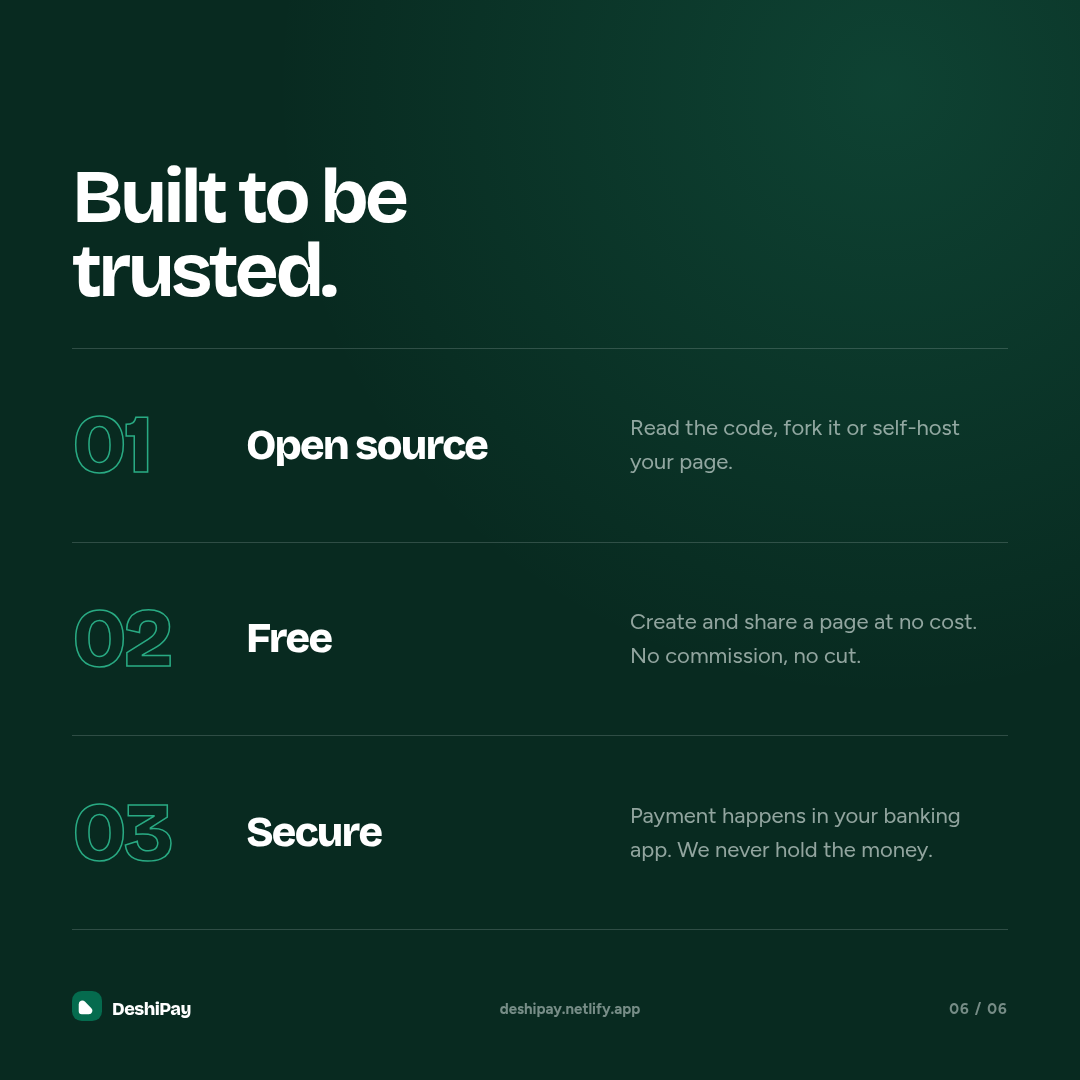
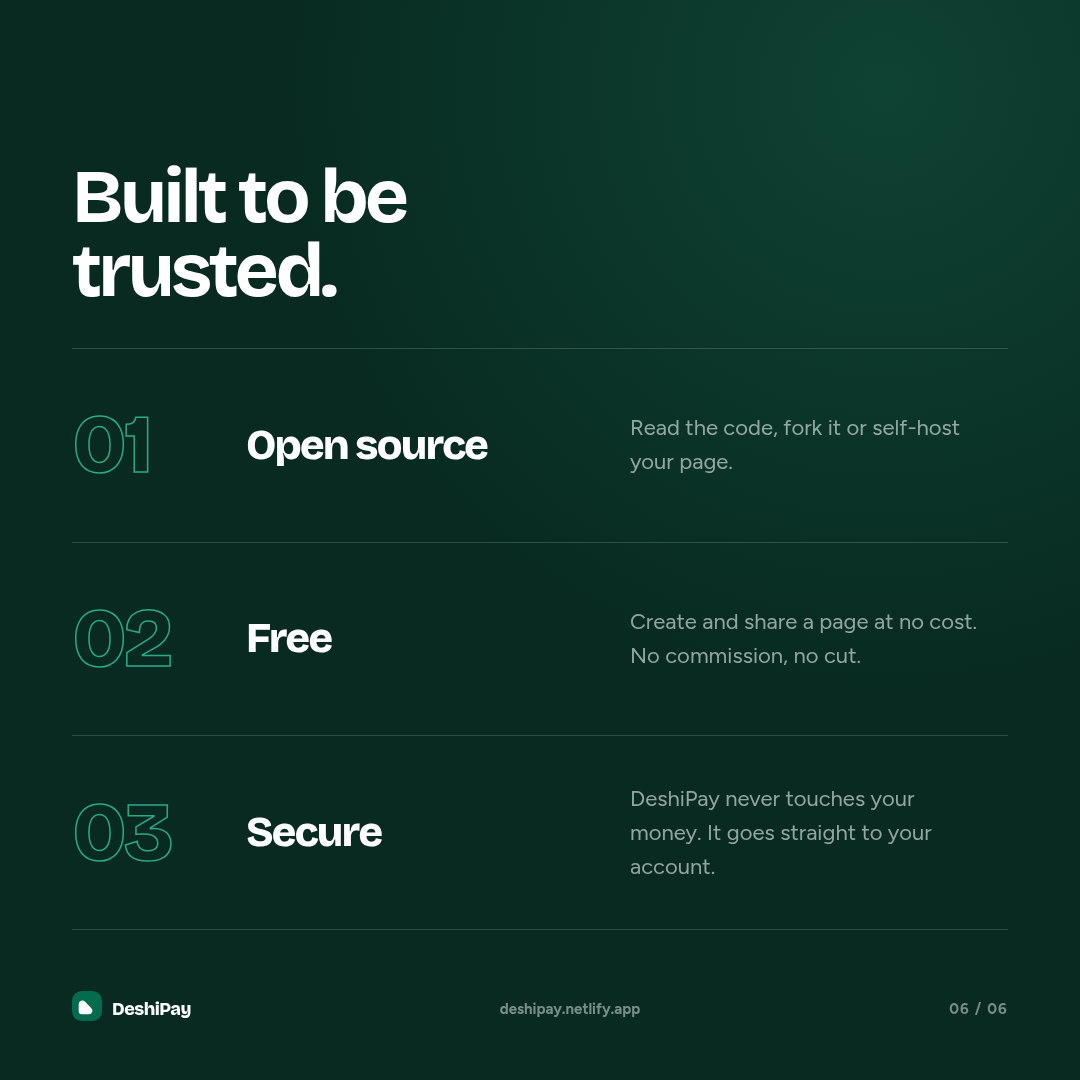
content(page6): clarify that DeshiPay never touches the money

Changed region(s): [[0.5806, 0.7333, 0.8861, 0.825]]

diff --git a/promotionals/social/source/social.html b/promotionals/social/source/social.html
@@ -192,7 +192,7 @@
     <div class="s6-list">
       <div class="s6-row"><span class="s6-num">01</span><h2>Open source</h2><p>Read the code, fork it or self-host your page.</p></div>
       <div class="s6-row"><span class="s6-num">02</span><h2>Free</h2><p>Create and share a page at no cost. No commission, no cut.</p></div>
-      <div class="s6-row"><span class="s6-num">03</span><h2>Secure</h2><p>Payment happens in your banking app. We never hold the money.</p></div>
+      <div class="s6-row"><span class="s6-num">03</span><h2>Secure</h2><p>DeshiPay never touches your money. It goes straight to your account.</p></div>
     </div>
     <footer class="footer"><div class="brand"><span data-mark></span>DeshiPay</div><span class="mid">deshipay.netlify.app</span><span class="num">06 / 06</span></footer>
   </section>
